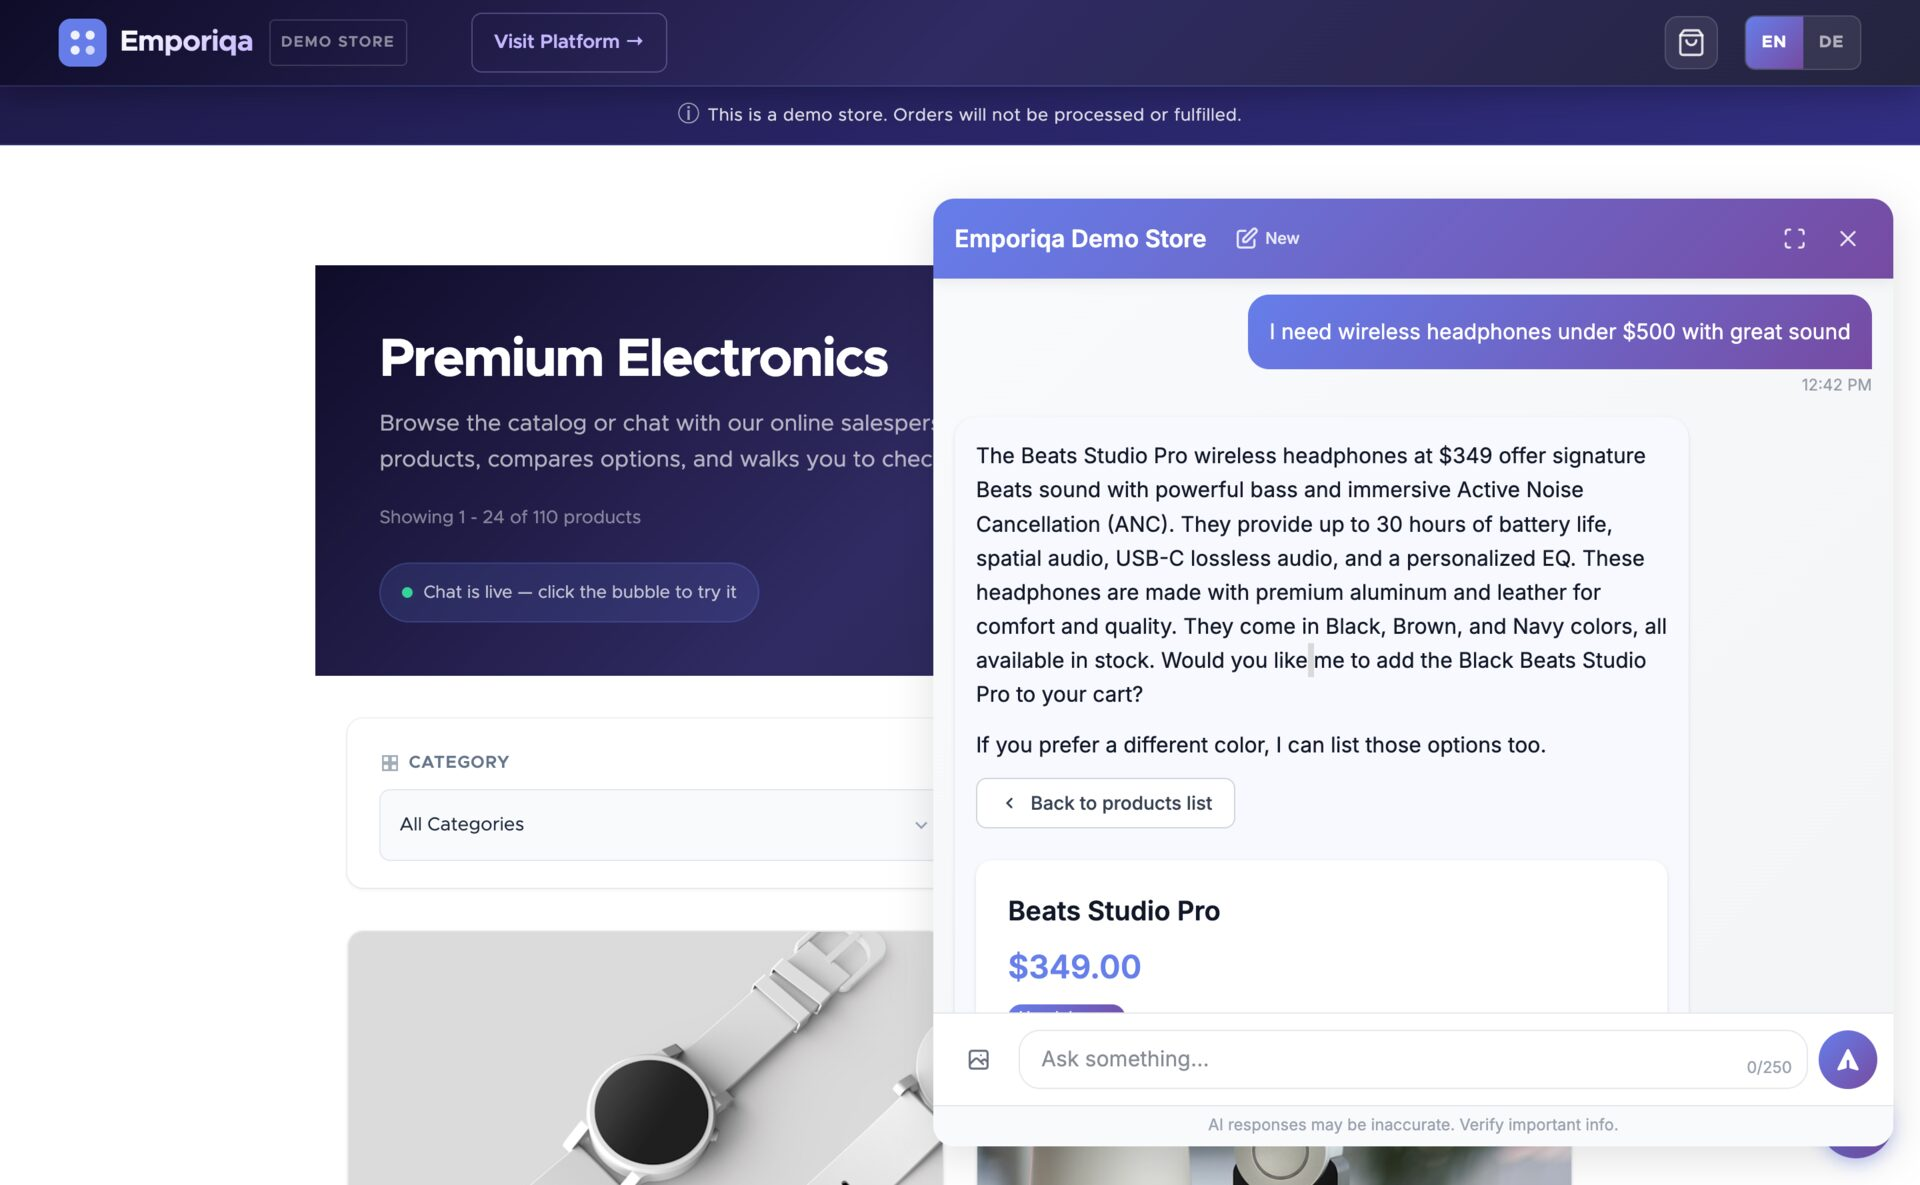
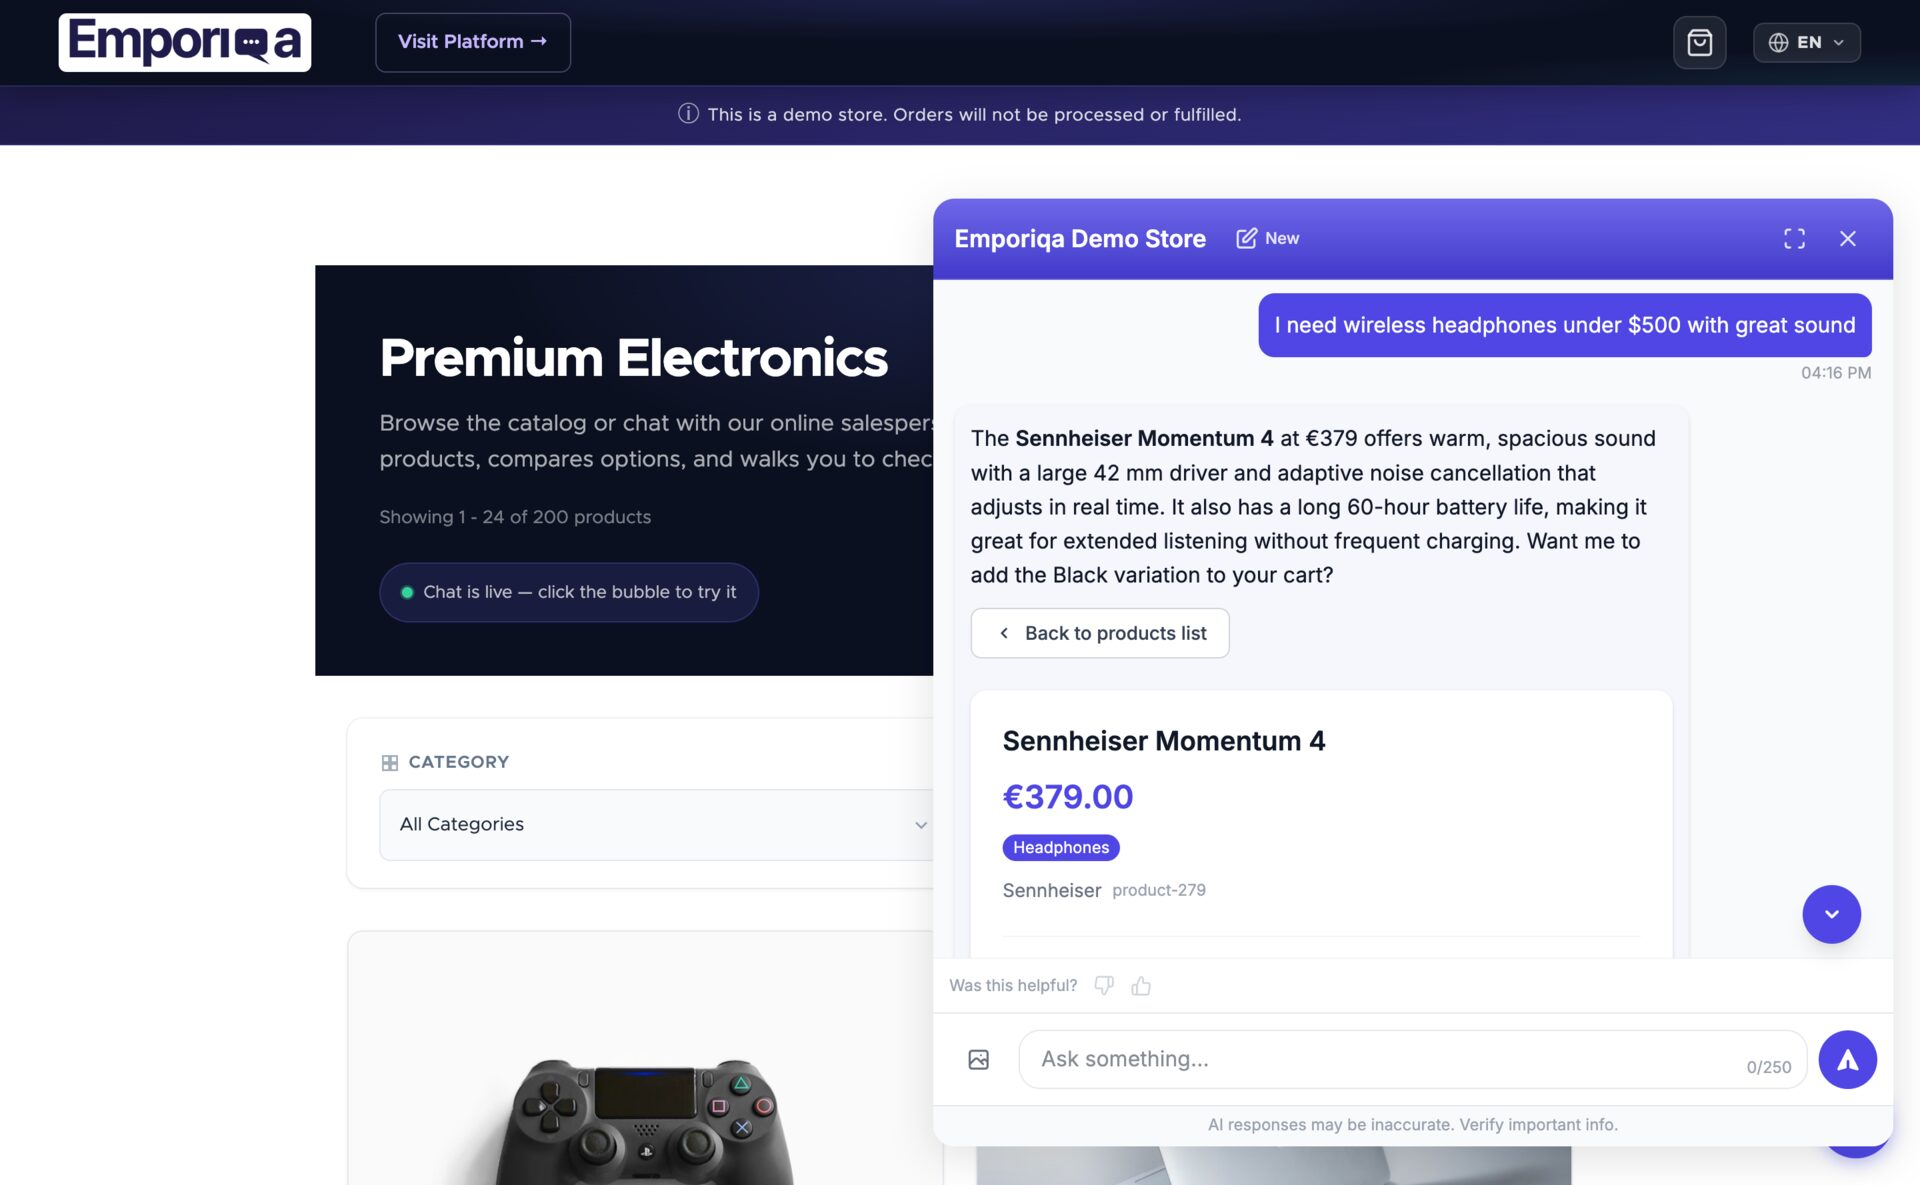
Restore product search hero image in README

diff --git a/README.md b/README.md
@@ -6,7 +6,7 @@ A shopper types "organic face cream for sensitive skin, under 30" into your stor
 
 The chatbot acts like an online salesperson. Shoppers describe what they need (or upload a photo of something they like), it finds matching products from your catalog, handles objections, answers questions from your own pages, compares items, and walks them to cart and checkout.
 
-[Emporiqa chat widget recommending wireless headphones from the store's catalog, with a product card showing price, stock, and an add-to-cart button](https://demo.emporiqa.com)
+[![Emporiqa chat widget recommending wireless headphones from the store's catalog, with a product card showing price, stock, and an add-to-cart button](docs/images/product-search.jpg)](https://demo.emporiqa.com)
 
 Try it yourself on the [live demo store](https://demo.emporiqa.com).
 
